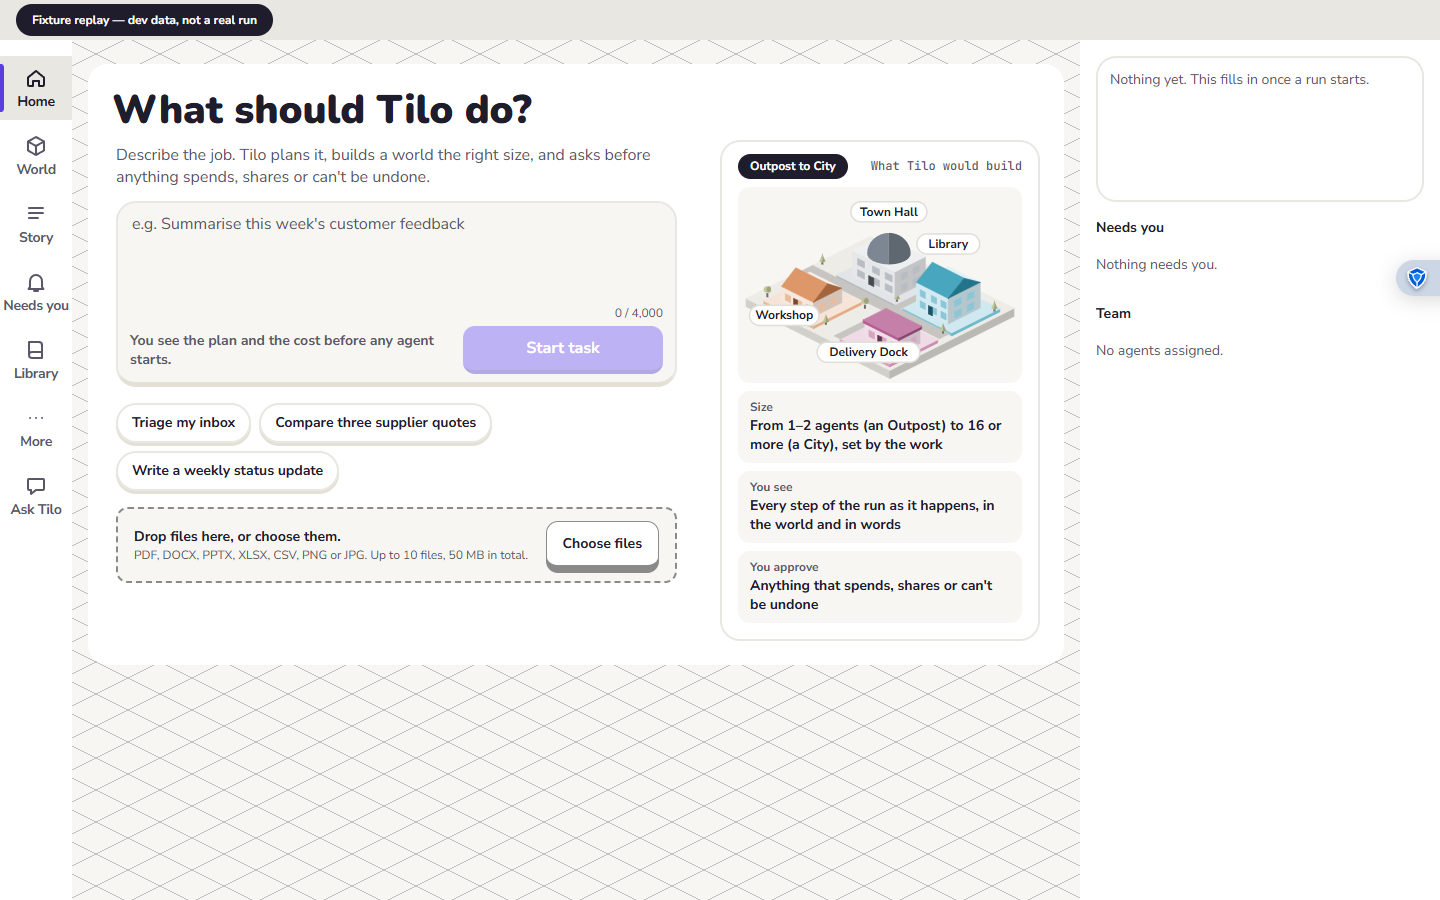
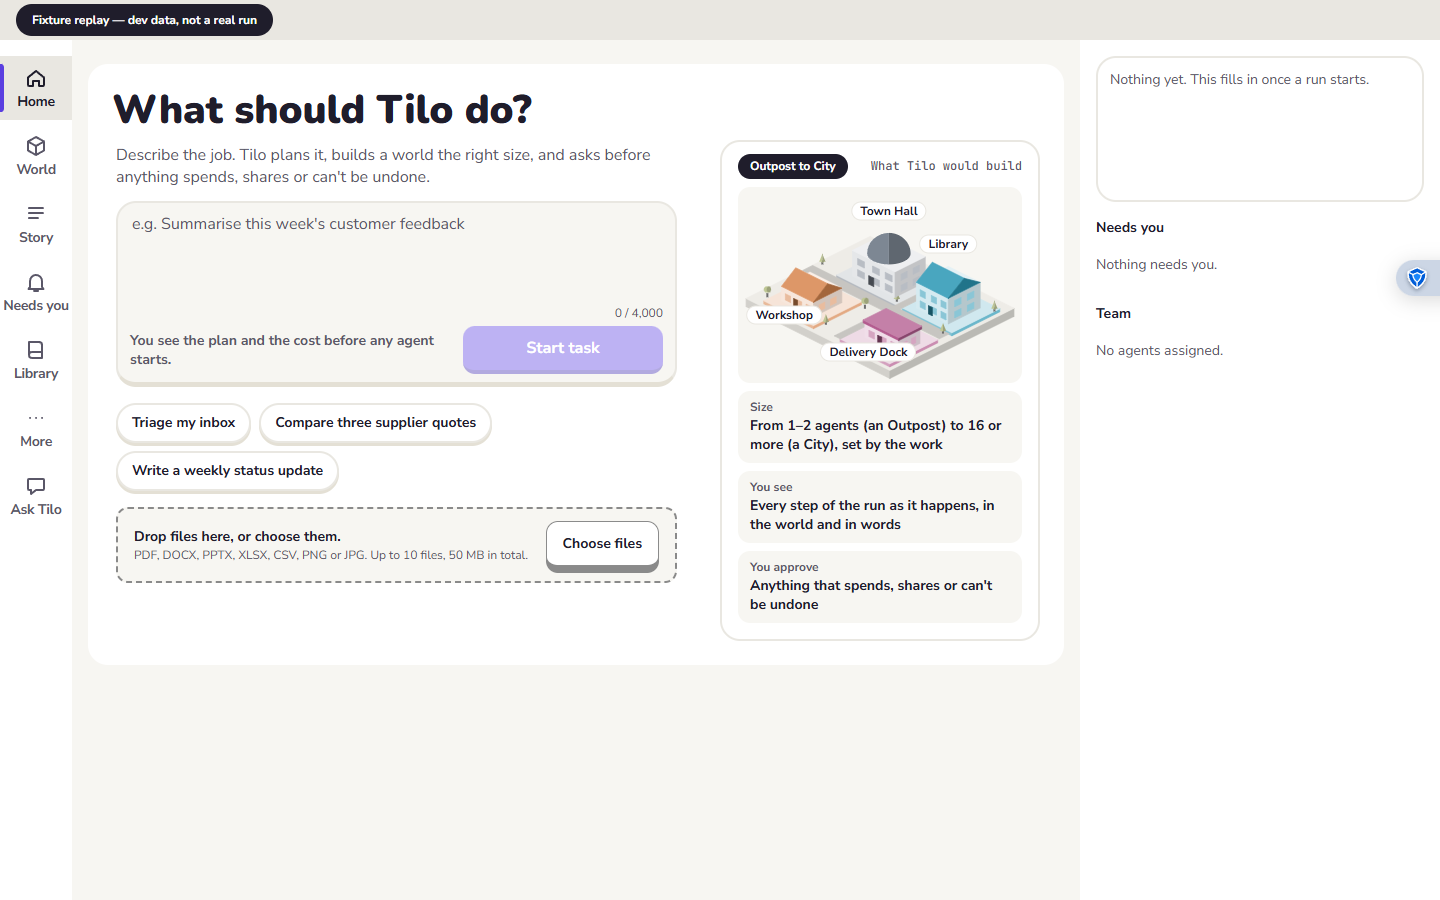
fix(web): S-01 preview layout follow-ups: tablet tiles, 12 px tags, 24 px stack gap (#227)
- Facts go three across only when the card is at least 480 px wide inside (container query),
  so the tablet card no longer wraps one word per line.
- Name tags are HTML pills over the SVG, placed in % of its viewBox, so they are 12 px at every
  width while the picture scales.
- Stacked under 1280, the message line keeps one line and the row gap is 4 px, so the preview
  sits one 24 px gap under the drop zone (was about 70).
- e2e: tags 12 px, no sideways scroll, tile rows and gap at 390, 768, 1024, 1280, 1440.

Req: UX-1

Changed region(s): [[0.5625, 0.3733, 0.6562, 0.4044], [0.5938, 0.2178, 0.6562, 0.2489], [0.5312, 0.3422, 0.5625, 0.3733]]

diff --git a/apps/web/src/screens/flow/HomeScene.tsx b/apps/web/src/screens/flow/HomeScene.tsx
@@ -3,7 +3,8 @@
 // (P, poly, box, colorsFor, facade, roofEl, tree, label; ADR-0003) and from the Pixi art in
 // src/world/art, with SVG polygons in place of Graphics paths. Every colour is a design token or a
 // mix of one with black or white. It is a picture of the product, not of a task: nothing in it is
-// planned, nothing moves (HR-1, HR-2), and no figure or agent is drawn.
+// planned, nothing moves (HR-1, HR-2), and no figure or agent is drawn. The name tags are HTML over
+// the SVG (placed in % of its viewBox), so they stay 12 px however wide the picture is drawn.
 import type { ReactNode } from "react";
 import tokens from "../../design/tokens";
 import { PALETTE, type Shade, dk, lt } from "../../world/art/color";
@@ -162,41 +163,6 @@ function Tree({ at, pine }: { at: readonly [number, number]; pine: boolean }) {
   );
 }
 
-/** A name tag: white pill, ink text, 12 px (the ramp's smallest step). */
-function Tag({
-  at: [x, y],
-  text,
-  fill = PALETTE.white,
-  ink = PALETTE.ink,
-}: { at: Pt; text: string; fill?: string; ink?: string }) {
-  const w = text.length * 6.6 + 16;
-  return (
-    <g>
-      <rect
-        x={x - w / 2}
-        y={y - 10}
-        width={w}
-        height={20}
-        rx={10}
-        fill={fill}
-        stroke={PALETTE.pillLine}
-        strokeWidth={1.5}
-      />
-      <text
-        x={x}
-        y={y + 4}
-        textAnchor="middle"
-        fontFamily={tokens.font.ui}
-        fontSize={12}
-        fontWeight={700}
-        fill={ink}
-      >
-        {text}
-      </text>
-    </g>
-  );
-}
-
 const ROAD = dk(PALETTE.road, 0.1);
 const PLATE = { x0: -0.5, y0: -0.5, x1: 7.6, y1: 6.5 };
 const SPOTS: readonly Spot[] = [
@@ -274,40 +240,52 @@ export function HomeScene(): ReactNode {
       c={{ t: lt(tint, 0.78), l: lt(tint, 0.42), r: lt(tint, 0.3) }}
     />
   );
+  const [vx, vw, vh] = [left - 8, right - left + 16, bottom - top];
   const sorted = [...SPOTS].sort((a, b) => a.x + a.y - (b.x + b.y));
   return (
-    <svg
-      viewBox={`${left - 8} ${top} ${right - left + 16} ${bottom - top}`}
-      aria-hidden="true"
-      focusable="false"
-      className="home-scene"
-    >
-      <Slab b={[x0, y0, -8, x1 - x0, y1 - y0, 8]} c={PALETTE.slab} />
-      {patch({ x: 0.9, y: 0.1, w: 3.4, d: 2.7 }, tokens.color.district.hall)}
-      {patch({ x: 4.6, y: 0.1, w: 2.8, d: 2.7 }, tokens.color.district.research)}
-      {patch({ x: 0.3, y: 3.6, w: 2.8, d: 2.7 }, tokens.color.district.analysis)}
-      {patch({ x: 4.6, y: 3.6, w: 2.8, d: 2.7 }, tokens.color.district.delivery)}
-      {/* The roads: one along the plate, one across. */}
-      <Poly
-        a={[P(-0.3, 2.95, 3.2), P(7.4, 2.95, 3.2), P(7.4, 3.5, 3.2), P(-0.3, 3.5, 3.2)]}
-        c={ROAD}
-      />
-      <Poly
-        a={[P(4.28, -0.2, 3.2), P(4.62, -0.2, 3.2), P(4.62, 6.3, 3.2), P(4.28, 6.3, 3.2)]}
-        c={ROAD}
-      />
-      {TREES.filter(([, y]) => y < 3).map(([x, y, pine]) => (
-        <Tree key={`${x},${y}`} at={[x, y]} pine={pine} />
-      ))}
-      {sorted.map((s) => (
-        <Building key={s.name} s={s} />
-      ))}
-      {TREES.filter(([, y]) => y >= 3).map(([x, y, pine]) => (
-        <Tree key={`${x},${y}`} at={[x, y]} pine={pine} />
-      ))}
-      {SPOTS.map((s) => (
-        <Tag key={s.name} at={tag(s)} text={s.name} />
-      ))}
-    </svg>
+    <div className="home-scene" aria-hidden="true">
+      <svg
+        viewBox={`${vx} ${top} ${vw} ${vh}`}
+        aria-hidden="true"
+        focusable="false"
+        className="home-scene-art"
+      >
+        <Slab b={[x0, y0, -8, x1 - x0, y1 - y0, 8]} c={PALETTE.slab} />
+        {patch({ x: 0.9, y: 0.1, w: 3.4, d: 2.7 }, tokens.color.district.hall)}
+        {patch({ x: 4.6, y: 0.1, w: 2.8, d: 2.7 }, tokens.color.district.research)}
+        {patch({ x: 0.3, y: 3.6, w: 2.8, d: 2.7 }, tokens.color.district.analysis)}
+        {patch({ x: 4.6, y: 3.6, w: 2.8, d: 2.7 }, tokens.color.district.delivery)}
+        {/* The roads: one along the plate, one across. */}
+        <Poly
+          a={[P(-0.3, 2.95, 3.2), P(7.4, 2.95, 3.2), P(7.4, 3.5, 3.2), P(-0.3, 3.5, 3.2)]}
+          c={ROAD}
+        />
+        <Poly
+          a={[P(4.28, -0.2, 3.2), P(4.62, -0.2, 3.2), P(4.62, 6.3, 3.2), P(4.28, 6.3, 3.2)]}
+          c={ROAD}
+        />
+        {TREES.filter(([, y]) => y < 3).map(([x, y, pine]) => (
+          <Tree key={`${x},${y}`} at={[x, y]} pine={pine} />
+        ))}
+        {sorted.map((s) => (
+          <Building key={s.name} s={s} />
+        ))}
+        {TREES.filter(([, y]) => y >= 3).map(([x, y, pine]) => (
+          <Tree key={`${x},${y}`} at={[x, y]} pine={pine} />
+        ))}
+      </svg>
+      {SPOTS.map((s) => {
+        const [x, y] = tag(s);
+        return (
+          <span
+            key={s.name}
+            className="home-tag"
+            style={{ left: `${((x - vx) / vw) * 100}%`, top: `${((y - top) / vh) * 100}%` }}
+          >
+            {s.name}
+          </span>
+        );
+      })}
+    </div>
   );
 }

diff --git a/apps/web/e2e/flow/s01-start.spec.ts b/apps/web/e2e/flow/s01-start.spec.ts
@@ -69,7 +69,7 @@ for (const viewport of [DESKTOP, MOBILE]) {
     // #227 B1/B2: under 1280 the preview stacks under the task and the column scrolls; the task and
     // Start stay on the first screen, and the scene is a decorative static picture on every size.
     await expect(preview).toBeVisible();
-    await expect(preview.locator("svg.home-scene")).toHaveAttribute("aria-hidden", "true");
+    await expect(preview.locator(".home-scene")).toHaveAttribute("aria-hidden", "true");
     await expect(preview.getByText("Outpost to City")).toBeVisible();
     if (viewport.width < 1280) {
       expect(start.y + start.height).toBeLessThanOrEqual(viewport.height);
@@ -140,5 +140,43 @@ for (const viewport of [DESKTOP, MOBILE]) {
     await expect(page.getByRole("heading", { level: 1, name: "Understanding" })).toBeVisible({
       timeout: 20_000,
     });
+  });
+}
+
+// #227 follow-ups: at every width the scene's tags are 12 px, the page does not scroll sideways, and
+// the stacked preview sits one 24 px gap under the drop zone, with the facts one per row while the
+// card's inside is under 480 px.
+for (const [width, height] of [
+  [390, 844],
+  [768, 1024],
+  [1024, 768],
+  [1280, 800],
+  [1440, 900],
+] as const) {
+  test(`UX-1 S_01 #227: preview tags are 12 px, no overflow, 24 px stack gap at ${width}x${height}`, async ({
+    page,
+  }) => {
+    await page.setViewportSize({ width, height });
+    const errors = watchConsole(page);
+    await page.goto("/");
+    const tags = page.locator(".home-tag");
+    await expect(tags).toHaveCount(4);
+    for (const tag of await tags.all()) {
+      expect(await tag.evaluate((el) => getComputedStyle(el).fontSize)).toBe("12px");
+    }
+    const preview = await page.getByLabel("What Tilo would build").boundingBox();
+    const drop = await page.locator(".file-drop").boundingBox();
+    const rows = await page
+      .locator(".home-tiles > div")
+      .evaluateAll((els) => els.map((el) => el.getBoundingClientRect().y));
+    if (!(preview && drop)) throw new Error("S-01 parts are not on screen");
+    const inner = preview.width - 36; // padding and border: the card's own width, as the query reads it
+    expect(new Set(rows).size).toBe(inner < 480 ? 3 : 1);
+    if (width < 1280) expect(preview.y - (drop.y + drop.height)).toBeLessThanOrEqual(30);
+    const sideways = await page.evaluate(
+      () => document.documentElement.scrollWidth > document.documentElement.clientWidth,
+    );
+    expect(sideways).toBe(false);
+    expect(errors).toEqual([]);
   });
 }

diff --git a/apps/web/src/screens/flow/flow.css b/apps/web/src/screens/flow/flow.css
@@ -92,6 +92,7 @@
   min-height: 0;
 }
 .home-preview {
+  container-type: inline-size; /* the facts go three across only when the card is wide enough */
   display: flex;
   flex-direction: column;
   gap: 8px;
@@ -132,9 +133,25 @@
   background: var(--color-surface-0);
 }
 .home-scene {
+  position: relative;
+  width: 100%;
+}
+.home-scene-art {
   display: block;
   width: 100%;
   height: auto; /* the viewBox gives the height from the width, so it is reserved from first paint */
+}
+/* A name tag: white pill, 12 px at every width (the picture scales, the tags do not). */
+.home-tag {
+  position: absolute;
+  transform: translate(-50%, -50%);
+  padding: 0 8px;
+  border: 1.5px solid var(--color-surface-2);
+  border-radius: var(--radius-pill);
+  background: var(--color-surface-1);
+  color: var(--color-ink-1);
+  font: 700 var(--text-12) / 17px var(--font-ui);
+  white-space: nowrap;
 }
 @media (min-width: 768px) {
   .flow-wide .flow-summary {
@@ -160,6 +177,11 @@
   margin: 0;
   font: 700 var(--text-14) / 1.4 var(--font-ui);
 }
+@container (min-width: 480px) {
+  .home-tiles {
+    grid-template-columns: repeat(3, minmax(0, 1fr));
+  }
+}
 @media (max-width: 1279px) {
   .home-layout {
     grid-template-columns: minmax(0, 1fr);
@@ -171,16 +193,21 @@
   .home-scene {
     max-width: 360px;
   }
-  .home-tiles {
-    grid-template-columns: repeat(3, minmax(0, 1fr));
-  }
   /* One column, so the whole column scrolls (task first) instead of the task box alone. */
   .home-layout {
     overflow-y: auto;
     scrollbar-gutter: stable;
   }
+  .home-layout {
+    row-gap: 4px;
+  }
   .home-main {
     min-height: auto; /* the row keeps the whole task, which the column then scrolls */
+  }
+  /* The message line keeps one line (not two), so the gap above the preview reads as 24 px. */
+  .home-main .flow-msg {
+    min-height: 1.4em;
+    margin-top: 0;
   }
   .flow-body {
     flex: none;
@@ -191,9 +218,6 @@
 @media (max-width: 767px) {
   .home-stage {
     min-height: 0; /* compact: the picture's own height, about 150 px */
-  }
-  .home-tiles {
-    grid-template-columns: minmax(0, 1fr);
   }
   .flow-wide .flow-heading {
     font-size: var(--text-32);
